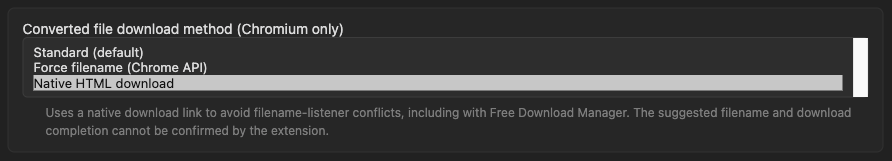
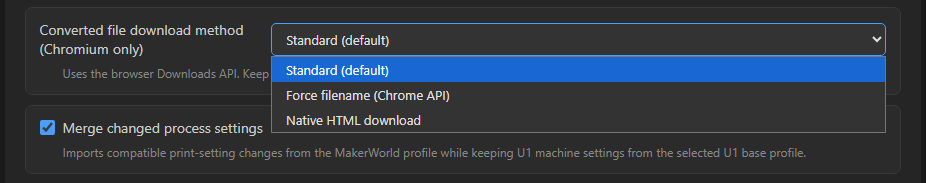
Prepare v1.9.0 release with updated documentation and settings layout

diff --git a/options.html b/options.html
@@ -513,12 +513,14 @@
   </div>
 
   <div class="option-row">
-    <label for="downloadMethod">Converted file download method (Chromium only)</label>
-    <select id="downloadMethod" aria-describedby="downloadMethodHint">
-      <option value="chrome-api">Standard (default)</option>
-      <option value="chrome-api-force">Force filename (Chrome API)</option>
-      <option value="native-html">Native HTML download</option>
-    </select>
+    <label>
+      <span style="min-width:160px">Converted file download method (Chromium only)</span>
+      <select id="downloadMethod" aria-describedby="downloadMethodHint">
+        <option value="chrome-api">Standard (default)</option>
+        <option value="chrome-api-force">Force filename (Chrome API)</option>
+        <option value="native-html">Native HTML download</option>
+      </select>
+    </label>
     <p class="hint" id="downloadMethodHint"></p>
   </div>
   

diff --git a/README.md b/README.md
@@ -4,6 +4,14 @@
 
 Convert MakerWorld and Bambu Studio 3MF projects into native Snapmaker U1 projects — directly from MakerWorld or from local files.
 
+**Snapmaker Innovation Fund Winner**
+
+MakerWorld to Snapmaker U1 has been selected as one of the winners of the **Snapmaker Innovation Fund**!
+
+A huge thank you to everyone who has supported this project, shared feedback, reported issues and helped improve the extension.
+
+This recognition shows what community-driven development can achieve. Your support has helped turn this project into a practical tool for Snapmaker U1 users, and I'm excited to keep improving it!
+
 MakerWorld to Snapmaker U1 is a browser extension for Chrome, Chromium-based browsers and Firefox. It offers two ways to convert projects:
 
 - **Direct MakerWorld conversion:** Convert print profiles directly on MakerWorld with a single click on a dedicated **"Convert to Snapmaker U1"** button.
@@ -250,39 +258,62 @@ Native reports use `status: initiated` and `success: null`: a click has no brows
 
 ## Installation
 
-Browser-specific packages are generated in the `dist` directory.
+### Google Chrome (Recommended)
 
-### Chrome and Chromium-based browsers
+Install directly from the official Chrome Web Store:
+
+[MakerWorld to Snapmaker U1 on Chrome Web Store](https://chromewebstore.google.com/detail/makerworld-to-snapmaker-u/nonnifmbllbihdjdcbcjdlffnggheien)
+
+1. Click **Add to Chrome**.
+2. Confirm the requested permissions.
+3. Open MakerWorld and start converting projects.
+
+Future updates are installed automatically through the Chrome Web Store.
+
+No Developer Mode or manual installation is required.
+
+### Microsoft Edge, Brave and other Chromium-based browsers
+
+The extension can also be installed from the Chrome Web Store in compatible Chromium-based browsers.
+
+1. Open the [Chrome Web Store listing](https://chromewebstore.google.com/detail/makerworld-to-snapmaker-u/nonnifmbllbihdjdcbcjdlffnggheien).
+2. Allow extensions from other stores if your browser requires it.
+3. Click **Add to Chrome** or the corresponding installation button.
+4. Confirm the requested permissions.
+
+Alternatively, use the manual installation method described below.
+
+### Manual Installation (Development / Testing)
+
+For developers, testers or users who prefer manual installation, browser-specific packages are available in the latest GitHub release.
 
 1. Download `makerworld-to-snapmaker-u1-chrome-vX.X.X.zip` from the latest GitHub release.
-
 2. Extract the ZIP archive.
-
 3. Open your browser's extension management page:
 
-   * Chrome: `chrome://extensions`
-   * Edge: `edge://extensions`
-   * Brave: `brave://extensions`
+   - Chrome: `chrome://extensions`
+   - Edge: `edge://extensions`
+   - Brave: `brave://extensions`
 
 4. Enable **Developer Mode**.
-
 5. Click **Load unpacked**.
-
 6. Select the extracted extension folder.
 
-The extension can also be loaded directly from the repository source folder in Chrome or another Chromium-based browser.
+The extension can also be loaded directly from the repository source folder.
 
-### Updating (Chrome / Chromium)
+### Updating a Manually Installed Extension
 
 When a new version is released:
 
 1. Download the latest Chrome package from the GitHub Releases page.
 2. Extract the ZIP archive.
 3. Replace the existing extension files in your folder with the new version.
-4. Open your browser's extension management page (`chrome://extensions`, `edge://extensions`, `brave://extensions`, etc.).
-5. Click **Reload** for the MakerWorld to Snapmaker U1 extension. If the browser was closed after replacing the files, reloading the extension is usually not necessary.
+4. Open your browser's extension management page.
+5. Click **Reload** for the MakerWorld to Snapmaker U1 extension.
 
-Your existing converter settings and imported custom printer profiles are stored in the browser and will be preserved during updates.
+Your existing converter settings and imported custom printer profiles are stored in the browser and will be preserved when updating the same extension installation.
+
+**Note:** Extensions installed manually and extensions installed from the Chrome Web Store may use different extension IDs. Browser-stored settings and imported profiles are not automatically transferred between separate installations.
 
 ### Firefox
 
@@ -301,14 +332,14 @@ For development or temporary testing, the Firefox package can still be downloade
 
 ## Browser Support
 
-| Browser                       | Status                                   |
-| ----------------------------- | ---------------------------------------- |
-| Google Chrome                 | ✅ Supported                              |
-| Microsoft Edge                | ✅ Supported through the Chromium package |
-| Brave                         | ✅ Supported through the Chromium package |
-| Other Chromium-based browsers | ✅ Expected to work                       |
-| Mozilla Firefox               | ✅ Supported (Mozilla Add-ons)            |
-| Safari                        | ❌ Not supported                          |
+| Browser                       | Status                                  |
+| ----------------------------- | --------------------------------------- |
+| Google Chrome                 | ✅ Supported (Chrome Web Store)          |
+| Microsoft Edge                | ✅ Supported (Chromium)                  |
+| Brave                         | ✅ Supported (Chromium)                  |
+| Other Chromium-based browsers | ✅ Expected to work                      |
+| Mozilla Firefox               | ✅ Supported (Mozilla Add-ons)           |
+| Safari                        | ❌ Not supported                         |
 
 ---
 
@@ -391,6 +422,7 @@ The generated project opens as a normal Snapmaker Orca or Orca project and is re
 ![Snapmaker Orca](screenshots/project.png)
 
 ![Orca](screenshots/orca.png)
+
 ---
 
 ## Support the Project

diff --git a/CHANGELOG.md b/CHANGELOG.md
@@ -4,7 +4,7 @@ All notable changes to this project will be documented in this file.
 
 This project follows the principles of **Keep a Changelog** and uses **Semantic Versioning**.
 
-## [Unreleased]
+## [1.9.0] - 2026-10-29
 
 ### Added
 - Add a **Converted file download method** selector with Standard, Force filename (Chrome API), and Native HTML download. Native HTML avoids the filename-listener conflict with Free Download Manager while retaining the existing API implementations and Firefox pipeline.
